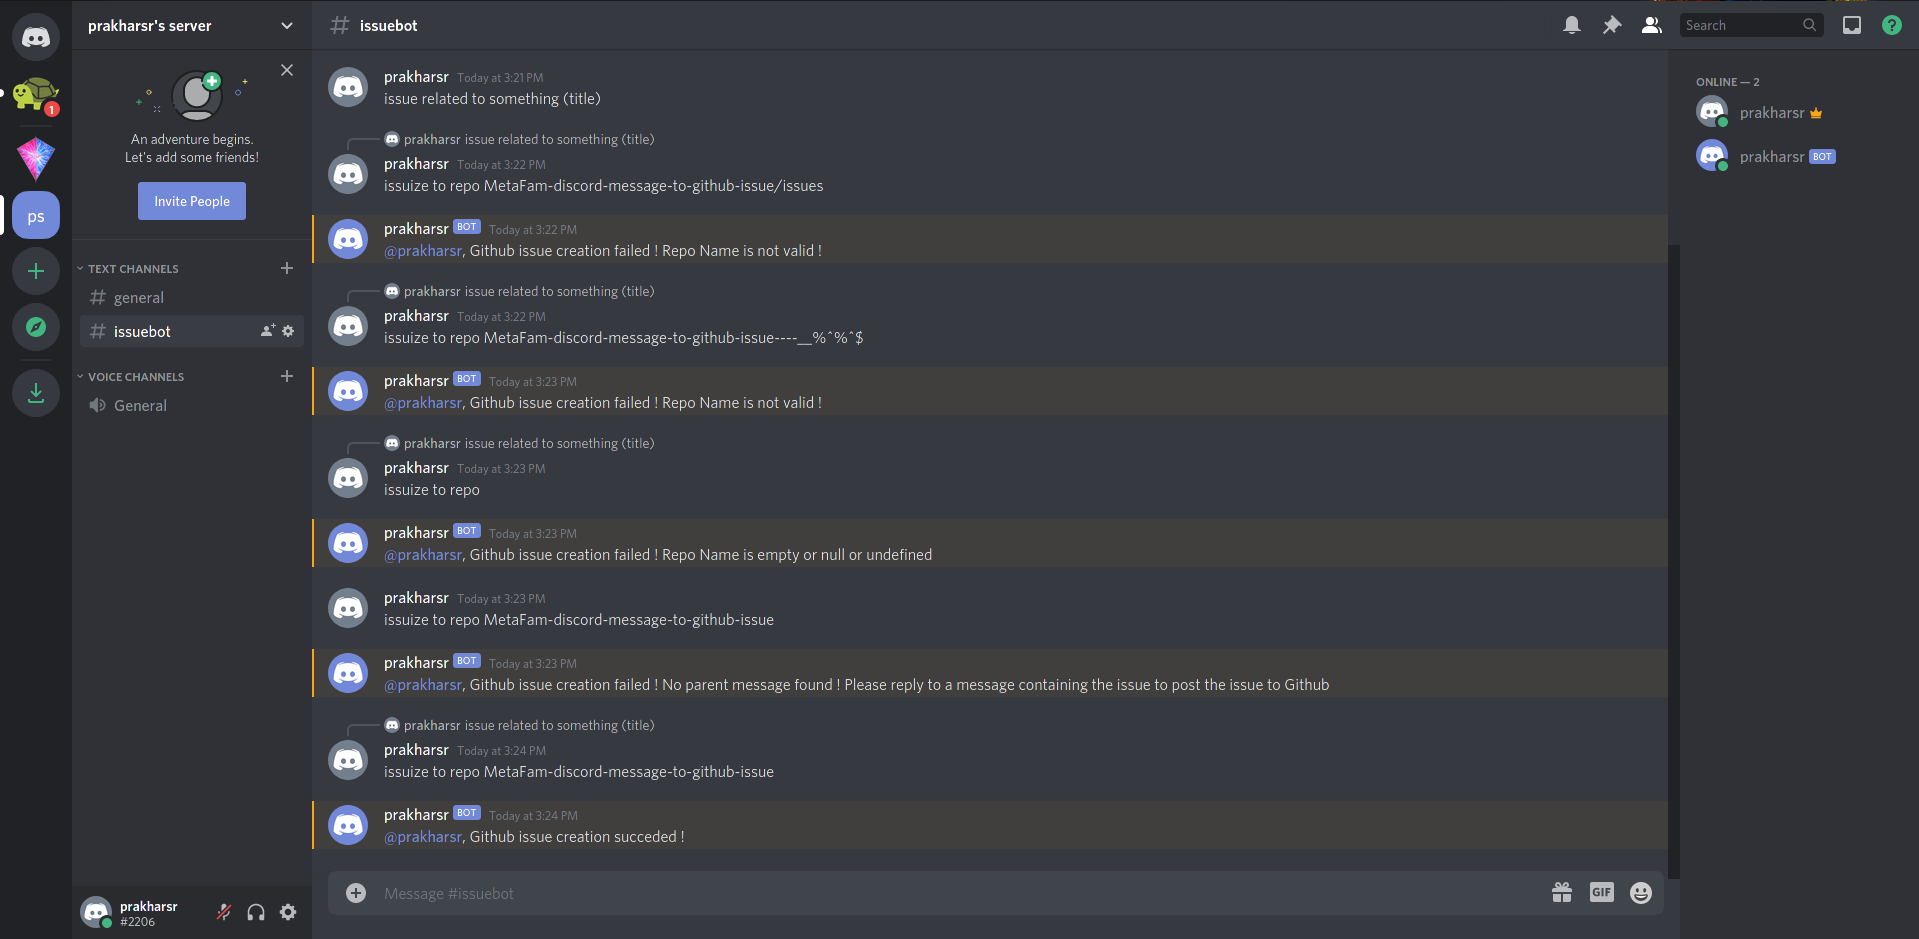
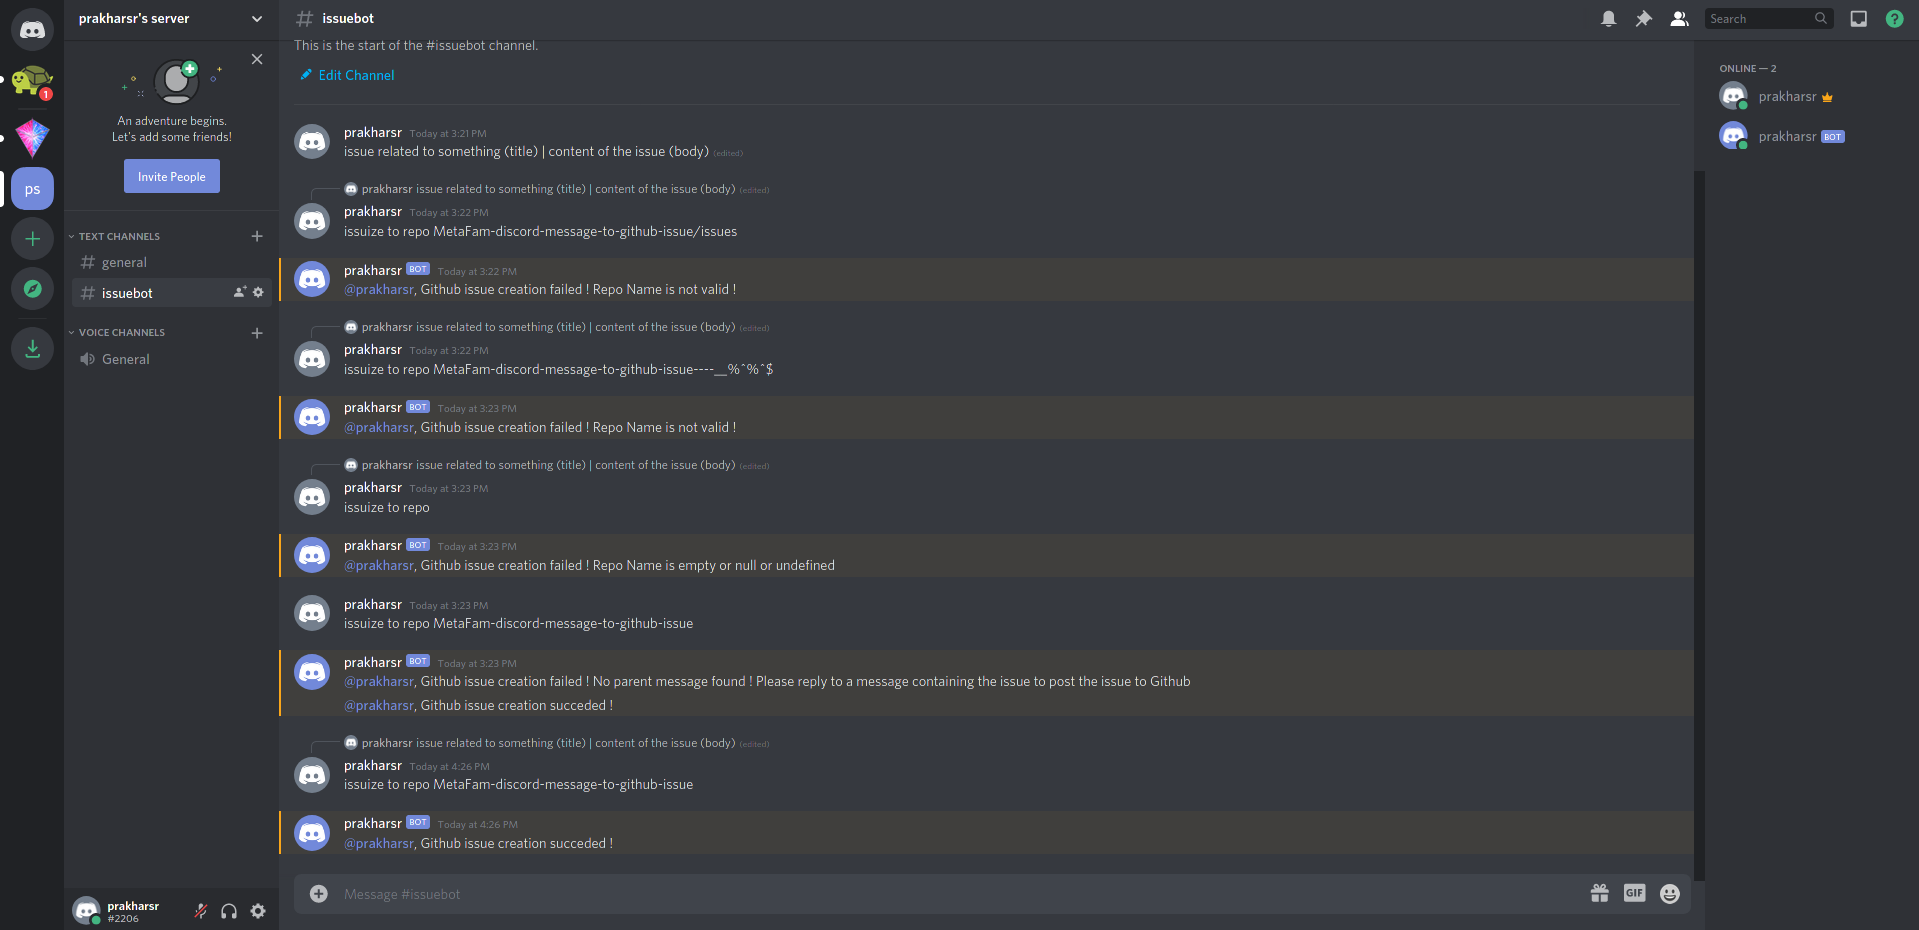
add Dockerfile and instructions to README, add title and body options to index.js

Changed region(s): [[0.0, 0.0, 0.7071, 0.9978], [0.7994, 0.2495, 0.8916, 0.9667], [0.7994, 0.0, 1.0, 0.1871]]

diff --git a/index.js b/index.js
@@ -23,7 +23,9 @@ client.on('message', msg => {
                 client.channels.fetch(msg.channel.id).then(channel => {
                     let parentMessageId = msg.reference.messageID;
                     channel.messages.fetch(parentMessageId).then(message => {
-                        githubIssueTitle = message.content;
+                        let parentIssueMessage = message.content;
+                        let githubIssueTitle = parentIssueMessage.split("|")[0].trim();
+                        let githubIssueBody = parentIssueMessage.split("|")[1].trim();
                         console.log(`The issue title to post to Github is : ${githubIssueTitle}`);
                         let repoName = msg.content.split("issuize to repo")[1].trim();
                         if(!repoName || repoName.length === 0 ) {
@@ -39,6 +41,7 @@ client.on('message', msg => {
                                     owner: repoOwner,
                                     repo: repoName,
                                     title: githubIssueTitle,
+                                    body: githubIssueBody
                                   }).then(() => {
                                     msg.reply('Github issue creation succeded !').catch(console.error);
                                   }).catch(err => console.error(err))

diff --git a/keys.js b/keys.js
@@ -1,5 +1,5 @@
 module.exports = {
-    DISCORD_BOT_TOKEN : "",
-    GITHUB_PERSONAL_ACCESS_TOKEN : "",
-    GITHUB_REPO_OWNER_USERNAME : ""
+    DISCORD_BOT_TOKEN : "ODI5OTQwODE3NTY0OTI2MDAy.YG_cng.iPqmqyTSOoII7LMmX9h67I5oB0w",
+    GITHUB_PERSONAL_ACCESS_TOKEN : "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",
+    GITHUB_REPO_OWNER_USERNAME : "prakharsr"
 }

diff --git a/keys.template.js b/keys.template.js
@@ -1,0 +1,5 @@
+module.exports = {
+    DISCORD_BOT_TOKEN : "",
+    GITHUB_PERSONAL_ACCESS_TOKEN : "",
+    GITHUB_REPO_OWNER_USERNAME : ""
+}

diff --git a/README.md b/README.md
@@ -2,12 +2,26 @@
 
 For Gitcoin's hackathon https://gitcoin.co/issue/MetaFam/fix-the-world/2/100025495. I used discord's API to create a bot which will listen for messages on all the channels of a user and if any reply of the kind "issuize to repo X" to a message containing an issue is made, then it will check if the repo's name is correct according to github's naming conventions then it'll publish that issue to that repo and will reply to the user's message telling him that it has succeeded.
 
+Example format for issue message : `issue related to something (title) | content of the issue (body)`
+Example format for replying to issue : `issuize to repo MetaFam-discord-message-to-github-issue`
+
 ![Working Example](./example.png?raw=true "Working Example")
 
-# Instructions
+# Obtaining access tokens and adding them to keys.js
 
-1. Create a Personal access token for Github from https://github.com/settings/tokens. Copy the token and paste in the field GITHUB_PERSONAL_ACCESS_TOKEN in keys.js
-2. Create a Bot and token for Discord. Instructions are at https://discordpy.readthedocs.io/en/latest/discord.html. Copy the token and paste in the field DISCORD_BOT_TOKEN in keys.js.
-3. Put your Github username in the field GITHUB_REPO_OWNER_USERNAME in keys.js.
-4. run `npm install`.
-5. run `npm start`.
+1. Create a copy of keys.template.js to keys.js using `cp keys.template.js keys.js`
+2. Create a Personal access token for Github from https://github.com/settings/tokens. Copy the token and paste in the field GITHUB_PERSONAL_ACCESS_TOKEN in keys.js
+3. Create a Bot and token for Discord. Instructions are at https://discordpy.readthedocs.io/en/latest/discord.html. Copy the token and paste in the field DISCORD_BOT_TOKEN in keys.js. Invite your bot, insrtuctions are at https://discordpy.readthedocs.io/en/latest/discord.html#inviting-your-bot.
+4. Put your Github username in the field GITHUB_REPO_OWNER_USERNAME in keys.js
+
+## Instructions to run locally
+
+1. Complete the above step for obtaining access tokens and adding them to keys.js
+2. run `npm install`
+3. run `npm start`
+
+## Instructions for deploying using Docker
+
+1. Complete the above step for obtaining access tokens and adding them to keys.js
+2. run `docker build -t <your_username>/issuesbot`
+3. run `docker run -d <your_username>/issuesbot:latest`
